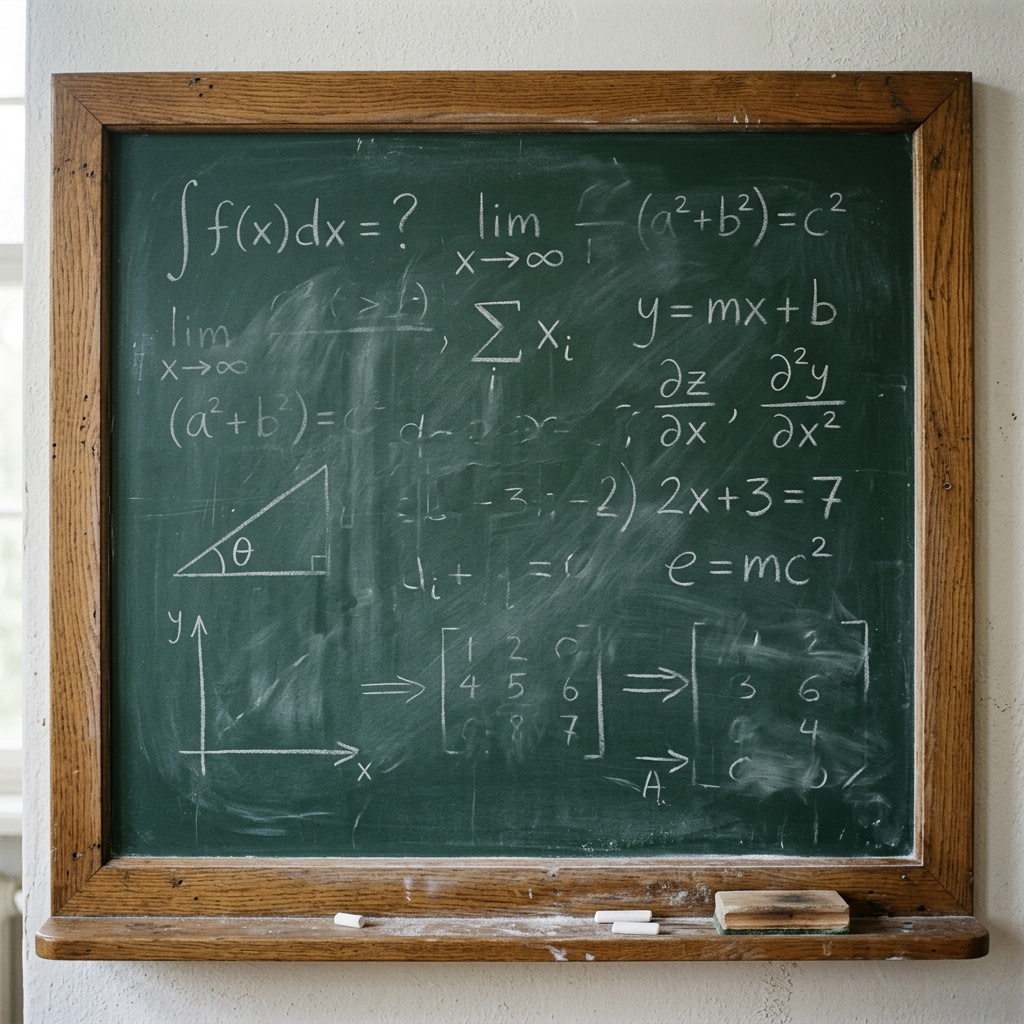
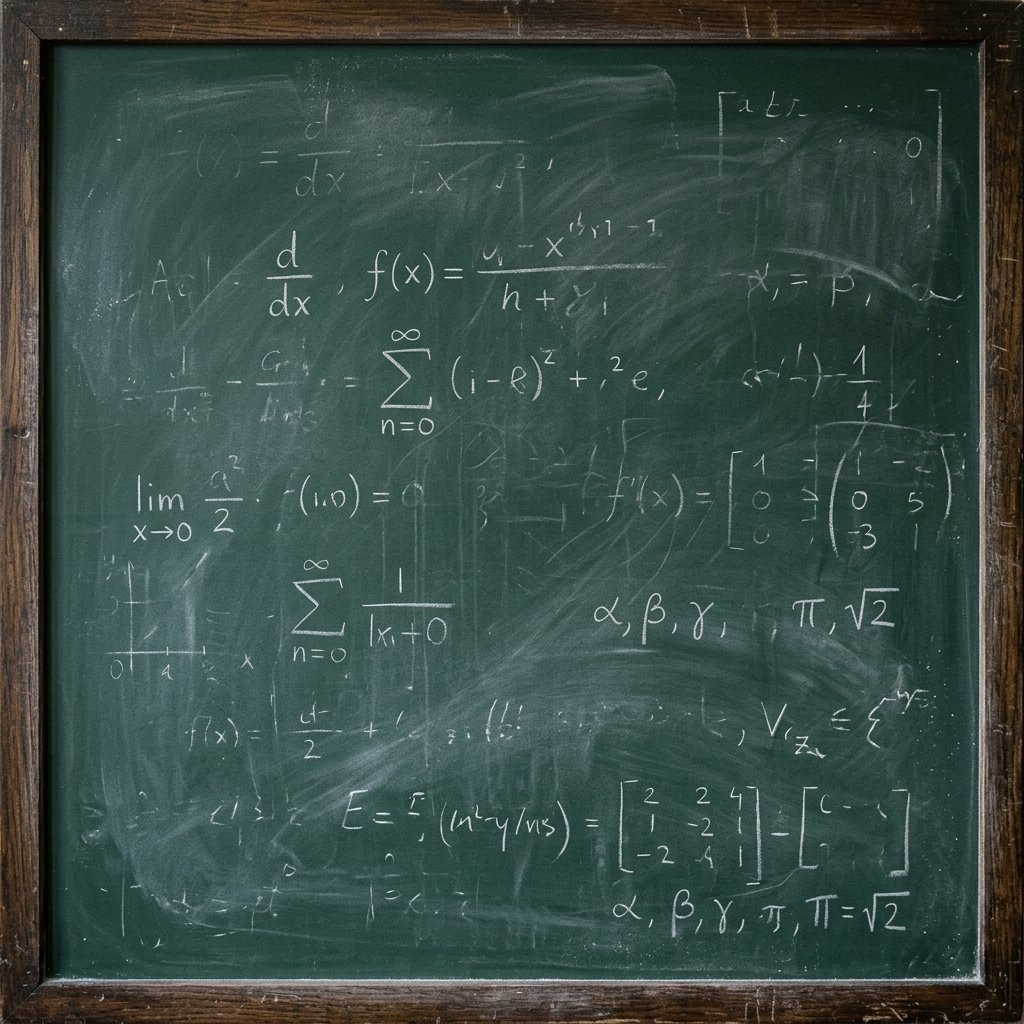
Mejorar fondo de pizarrón: ajustar marcos y remover pared de fondo

diff --git a/app.py b/app.py
@@ -43,7 +43,7 @@ if os.path.exists(_img_path):
     <style>
     .stApp, [data-testid="stAppViewContainer"], [data-testid="stMain"] {{
         background-image: url("data:image/png;base64,{encoded_string}") !important;
-        background-size: cover !important;
+        background-size: 100% 100% !important;
         background-position: center !important;
         background-attachment: fixed !important;
         background-repeat: no-repeat !important;